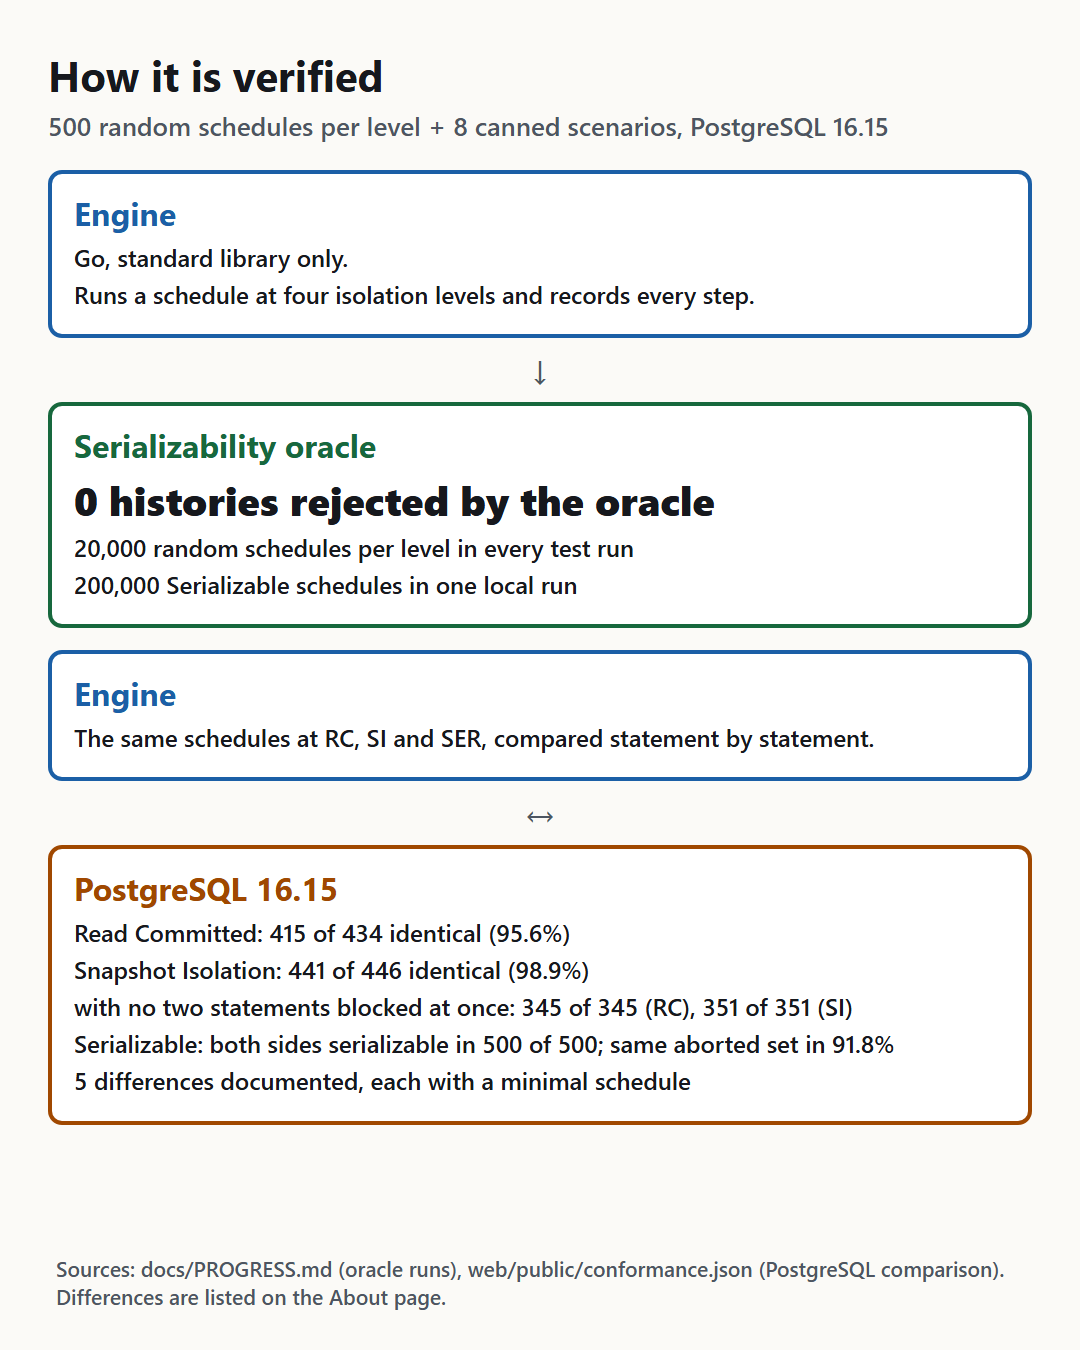
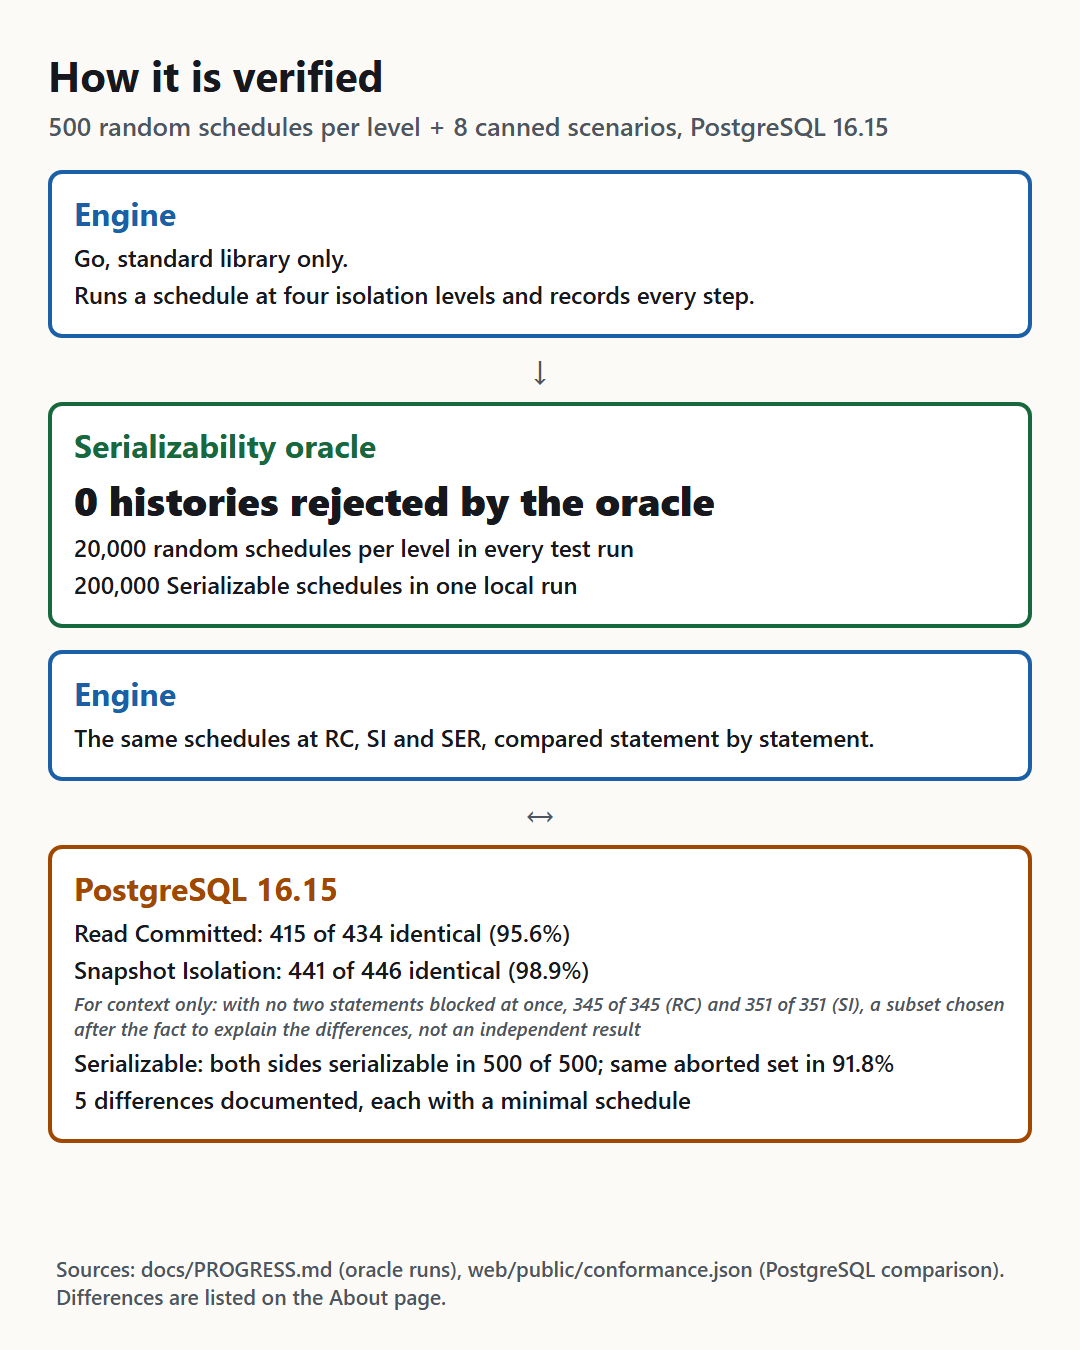
Label the 'no two statements blocked at once' subset as chosen after the fact; dedicated engine diagram
The subset (README, About column, Show HN draft, verification diagram, PROGRESS) now says it is a
subset chosen after the fact to explain the differences, not an independent result;
check-claims.mjs flags it anywhere it appears without that label (with a test). X post 3 uses a new
generated engine-diagram.png (snapshots, lock waits, dependency tracking) instead of a stand-in.

Changed region(s): [[0.0306, 0.7156, 0.825, 0.84], [0.8861, 0.7156, 0.9167, 0.7467], [0.825, 0.7156, 0.8556, 0.7467]]

diff --git a/web/components/ConformanceSection.tsx b/web/components/ConformanceSection.tsx
@@ -110,7 +110,7 @@ export function ConformanceSection({ conf }: { conf: Conformance }) {
                 Identical
               </th>
               <th scope="col" className="border border-line p-2 text-right">
-                Identical when no two statements were blocked at once
+                Identical when no two statements were blocked at once (subset chosen after the fact to explain the differences, not an independent result)
               </th>
               <th scope="col" className="border border-line p-2 text-right">
                 Deadlock: same outcome class
@@ -147,7 +147,7 @@ export function ConformanceSection({ conf }: { conf: Conformance }) {
         </table>
       </div>
       <p>
-        When one commit or abort releases several waiting transactions at once, PostgreSQL lets them run concurrently, while this engine serves them in arrival order. The schedules that can differ are the ones where two statements were blocked at the same time; the measured differences are listed below.
+        When one commit or abort releases several waiting transactions at once, PostgreSQL lets them run concurrently, while this engine serves them in arrival order. The schedules that can differ are the ones where two statements were blocked at the same time; the measured differences are listed below. The "no two statements blocked at once" column is a subset chosen after the fact to explain the differences, not an independent result.
       </p>
 
       <h3 className="mt-6 mb-2 text-lg font-semibold">Serializable</h3>

diff --git a/docs/PROGRESS.md b/docs/PROGRESS.md
@@ -71,7 +71,7 @@ pm audit 0 vulnerabilities), e2e 8m27s (323 Playwright tests passed, 16 skipped,
 Measured by CI run 39578910902 (Linux, `postgres:16` service container, server 16.15 Debian), tree = commit bae15fa; the same structure of numbers was obtained locally on Windows against PostgreSQL 16.15. CI: go 4m14s, web 31s, e2e 11m25s, conformance 11m43s (all green on the first push). The committed `web/public/conformance.json` is that run's artifact.
 - [x] AC8.1 The harness runs in CI against the service container and writes `conformance.json` with `engineVersion` (1.0.0) and `postgresVersion`; a `go`-job step fails if the committed file's `engineVersion` differs from `azoo version`, and the web build fails on a stale or malformed file.
 - [x] AC8.2 Canned scenarios: all 24 (8 x RC/SI/SER) have the same occurs/prevented outcome on PostgreSQL and are identical statement by statement, in final state and in abort set. Read Uncommitted: asking PostgreSQL for it on the dirty-read schedule showed no dirty read and the same history as READ COMMITTED.
-- [x] AC8.3 Random RC/SI (500 per level, seeds 8000000..8000499, no DELETE): **not 100% identical.** RC 415 of 434 strictly compared (95.6%), SI 441 of 446 (98.9%); deadlock schedules agree on outcome class in 57 of 66 (RC) and 52 of 54 (SI). **Among schedules in which no two statements were blocked at once: RC 345/345 and SI 351/351 identical (100%).** Every mismatch (RC 28, SI 7) has simultaneous blocking and is covered by a knownDivergences entry with a committed regression schedule; 0 unexplained. In 126 of 132 (RC) and 124 of 126 (SI) such schedules PostgreSQL produced the engine's own history in at least one run.
+- [x] AC8.3 Random RC/SI (500 per level, seeds 8000000..8000499, no DELETE): **not 100% identical.** RC 415 of 434 strictly compared (95.6%), SI 441 of 446 (98.9%); deadlock schedules agree on outcome class in 57 of 66 (RC) and 52 of 54 (SI). Among schedules in which no two statements were blocked at once, RC 345/345 and SI 351/351 were identical (a subset chosen after the fact to explain the differences, not an independent result). Every mismatch (RC 28, SI 7) has simultaneous blocking and is covered by a knownDivergences entry with a committed regression schedule; 0 unexplained. In 126 of 132 (RC) and 124 of 126 (SI) such schedules PostgreSQL produced the engine's own history in at least one run.
 - [x] AC8.4 SER: both histories serializable per the oracle in 500 of 500 (engine) and 500 of 500 (PostgreSQL). Identical abort sets 459 (91.8%); the engine aborts more in 3 (0.6%), fewer in 28 (5.6%), different sets of the same size in 10; all 28 "fewer" histories are serializable. Causes: docs/METHODOLOGY.md.
 - [ ] AC8.5 Nightly 10,000/level: `conformance-nightly.yml` written (schedule + workflow_dispatch, `contents: read`, SHA-pinned, report uploaded as an artifact); **not run**, the owner triggers it. Record its result here.
 - Divergences (5): `wake-order-race` (established), `released-waiters-interleave` (cause not yet established), `ser-disjoint-keys` and `ser-different-victim` (page-level predicate locks; control experiment passes), `ser-abort-earlier-statement` (cause not yet established). No engine bug was found; the only engine-tree change is the `gen.Config.NoDelete` option (separate commit, all gates green, WASM unchanged). One harness bug found and fixed (scripted ABORT).
@@ -93,10 +93,10 @@ Measured 2026-10-21; CI run 39590452570 (tree c1cdf9b): go 3m27s, web 47s, **sec
 ## P10 — Launch preparation (drafts only; nothing tagged, deployed or posted)
 Measured 2026-10-22 on Windows 11, Node 22.16.0, Go 1.27.3, ffmpeg from Chocolatey. **CI** run 39672189387 (tree f6f30d4, after rebasing onto the owner's merge of Dependabot PR 4, eslint 10): go 4m19s, web 40s, security 53s, e2e 12m14s, conformance 11m40s, all green. Local full run: the Playwright matrix had 381 passed and 5 load-related failures in Firefox and WebKit (engine-heavy tests, the same class as before); all 30 pass on re-run; Lighthouse 1.00 in all four categories on the pages measured. The full local checklist output is in `docs/RELEASE-CHECKLIST.md` ("Evidence of the last local run") and below.
 - Launch clip: `docs/launch/hero.mp4` is 23.96 s (about 24 s), 1280 x 960, 1.03 MB; `docs/launch/hero.gif` is 4.72 MB (4,724,853 bytes; the 5 MB limit), made by `web/scripts/record-launch.mjs` driving the built site through write skew at Snapshot Isolation, then Serializable. Captions are an overlay injected by the script only. Frames were inspected: the timeline, the T2 abort and the "Prevented" banner are visible and no caption covers them.
-- Stills (`web/scripts/launch-stills.mjs`): habitat map in light and dark, the "how it is verified" diagram (numbers read from `conformance.json` and the AC4.2 line of this file at run time), three 1080 x 1350 carousel stills.
+- Stills (`web/scripts/launch-stills.mjs`; also `engine-diagram.png` for X post 3, added after review): habitat map in light and dark, the "how it is verified" diagram (numbers read from `conformance.json` and the AC4.2 line of this file at run time), three 1080 x 1350 carousel stills.
 - Production URL: one source, `SITE_URL` in `web/lib/site.ts` (sitemap, robots, Open Graph metadata and the share-image cards read it); `node scripts/site-url.mjs --set <url>` rewrites the documents that quote it and `--check` runs in CI.
 - Claims policy: `scripts/check-claims.mjs` (CI `security` job) fails on the banned phrases and on any figure in the README, About page text, COPY files, release checklist and launch drafts that is in no recorded source (conformance.json, this log, DECISIONS.md or the structural allowlist, `docs/claims-allowlist.txt`); a figure cited to `conformance.json` must be in `conformance.json` itself. It has its own tests (7). It caught two real slips while writing: the About heading "Comparison with a real database" (a banned phrase, now "Comparison with PostgreSQL") and a draft figure taken from a local run instead of the committed report.
 - About page limits 3 and 4 now carry their PostgreSQL clauses, each backed by the measured comparison on the same page; limit 3 is conditional on the Read Uncommitted probe.
 - README rewritten; `docs/METHODOLOGY.md` final (engine semantics, oracle, property tests, mutation checks, conformance, five divergences with two "cause not yet established", limits); `CHANGELOG.md` 1.0.0 entry (not tagged); `docs/RELEASE-CHECKLIST.md`; `docs/launch/` post drafts (LinkedIn, X thread of 6 posts, Show HN, subreddit note, write-up outline).
-- Open `[MISSING: ...]` placeholders (all in `docs/launch/`): production URL confirmed live (LinkedIn, X thread, Show HN); repository link to post (LinkedIn, X, write-up); your own motivation sentences (Show HN); a dedicated engine diagram for X post 3 (a timeline still stands in); the rules of each subreddit, read on the day; which finding to lead the write-up with and your own voice.
+- Open `[MISSING: ...]` placeholders (all in `docs/launch/`): production URL confirmed live (LinkedIn, X thread, Show HN); repository link to post (LinkedIn, X, write-up); your own motivation sentences (Show HN); the rules of each subreddit, read on the day; which finding to lead the write-up with and your own voice.
 - NOT verified: production headers and Lighthouse on a deployed URL, real social-platform link previews, the nightly 10,000-per-level run, the 60-minute fuzz runs, free-tier terms (the owner re-checks and dates them in the release checklist), Safari on macOS and real devices.

diff --git a/README.md b/README.md
@@ -42,7 +42,7 @@ More commands, including fuzzing and coverage, are in [docs/DEV.md](docs/DEV.md)
 Each figure below links to where it is recorded. The method is in [docs/METHODOLOGY.md](docs/METHODOLOGY.md).
 
 - **Oracle.** The engine's Serializable level was checked against a serializability oracle on 20,000 random schedules per level in every test run, and on 200,000 Serializable schedules in one local run: 0 histories rejected ([PROGRESS.md, AC4.2](docs/PROGRESS.md)). Passing random schedules against an oracle is evidence, not a proof that the level is correct. Deliberately switching off any of the three edge-creation rules of the Serializable level makes tests fail ([mutation checks](docs/METHODOLOGY.md#mutation-checks)).
-- **PostgreSQL.** Outcomes were compared with PostgreSQL 16.15 on the 8 canned scenarios and 500 random schedules per level at Read Committed, Snapshot Isolation (PostgreSQL's Repeatable Read) and Serializable ([conformance.json](web/public/conformance.json), method in [METHODOLOGY](docs/METHODOLOGY.md)). Statement results, final state and aborted transactions were identical on 415 of 434 schedules at Read Committed (95.6%) and 441 of 446 at Snapshot Isolation (98.9%). When no two statements were blocked at the same time they were identical on 345 of 345 and 351 of 351. At Serializable both sides produced serializable histories in 500 of 500 schedules, with the same set of aborted transactions in 91.8%.
+- **PostgreSQL.** Outcomes were compared with PostgreSQL 16.15 on the 8 canned scenarios and 500 random schedules per level at Read Committed, Snapshot Isolation (PostgreSQL's Repeatable Read) and Serializable ([conformance.json](web/public/conformance.json), method in [METHODOLOGY](docs/METHODOLOGY.md)). Statement results, final state and aborted transactions were identical on 415 of 434 schedules at Read Committed (95.6%) and 441 of 446 at Snapshot Isolation (98.9%). The schedules where no two statements were blocked at the same time were identical on 345 of 345 and 351 of 351, but that is a subset chosen after the fact to explain the differences, not an independent result. At Serializable both sides produced serializable histories in 500 of 500 schedules, with the same set of aborted transactions in 91.8%.
 - **Differences are documented**, not hidden: there are 5, each with a minimal schedule under [`engine/testdata/regressions/`](engine/testdata/regressions/), and two of them are listed as "cause not yet established" ([METHODOLOGY, Divergences](docs/METHODOLOGY.md#divergences)).
 - **Reproducible engine build.** The WebAssembly engine is committed and CI rebuilds it from source and compares the hash; its trace digests equal the native ones on all 32 canned traces ([PROGRESS.md, P5](docs/PROGRESS.md)).
 - **Security checks** run in CI: vulnerability scans of both Go modules and the npm dependencies, a repository-controls check, CodeQL ([docs/SECURITY-CONTROLS.md](docs/SECURITY-CONTROLS.md)).

diff --git a/docs/launch/show-hn.md b/docs/launch/show-hn.md
@@ -18,7 +18,7 @@ What is verified and how:
 
 - The anomaly matrix (eight anomalies by four levels) is computed by running the engine and asserted in CI; there are no hand-written outcomes in the web app.
 - The Serializable level was checked against a serializability oracle on 20,000 random schedules per level in every test run, and on 200,000 in one local run: 0 histories rejected [source: docs/PROGRESS.md, AC4.2]. Deliberately disabling any of three edge-tracking rules makes tests fail, and the counterexamples shrink to 8 steps [source: docs/PROGRESS.md, AC4.3].
-- Compared with PostgreSQL 16.15 on 500 random schedules per level: 415 of 434 identical at Read Committed and 441 of 446 at Snapshot Isolation. Among schedules where no two statements were blocked at once: 345 of 345 and 351 of 351 [source: web/public/conformance.json, random.RC and random.SI]. At Serializable both sides were serializable in 500 of 500, with the same aborted set in 91.8% [source: web/public/conformance.json, random.SER].
+- Compared with PostgreSQL 16.15 on 500 random schedules per level: 415 of 434 identical at Read Committed and 441 of 446 at Snapshot Isolation. For context only, not a result to quote: among schedules where no two statements were blocked at once, 345 of 345 and 351 of 351, a subset chosen after the fact to explain the differences, not an independent result [source: web/public/conformance.json, random.RC and random.SI]. At Serializable both sides were serializable in 500 of 500, with the same aborted set in 91.8% [source: web/public/conformance.json, random.SER].
 - The differences are documented with a minimal schedule each; two are marked "cause not yet established" [source: web/public/conformance.json, knownDivergences]. The harness itself found that PostgreSQL's own result for the same schedule varies from run to run when two statements are blocked at the same time (method: docs/METHODOLOGY.md).
 
 Limits: keys and integers with prefix scans, no SQL or durability; a deterministic single-threaded simulation, not real concurrency; the Serializable level is simplified (key-prefix predicate locks, no read-only optimisation). PostgreSQL 16 only, on schedules without DELETE.

diff --git a/docs/launch/README.md b/docs/launch/README.md
@@ -9,6 +9,7 @@ Spec section 13.1 and 13.2. Everything in this folder is a draft for the owner t
 | `hero.mp4` | 24 s recording of write skew: Snapshot Isolation (zero on call), flip to Serializable, T2 aborts, the invariant holds | `cd web && npm run build && node scripts/record-launch.mjs` (needs `ffmpeg`) |
 | `hero.gif` | The same clip as a GIF under 5 MB | same command (it backs off width, frame rate and colours until the file fits) |
 | `habitat-map-light.png`, `habitat-map-dark.png` | The map, clean | `cd web && node scripts/launch-stills.mjs` |
+| `engine-diagram.png` | "How the engine works": snapshots, lock waits, dependency tracking, with illustrative values (for X post 3) | same command |
 | `how-verified.png` | "How it is verified": engine to oracle, engine and PostgreSQL on shared schedules, with measured numbers read from `conformance.json` and `docs/PROGRESS.md` when the script runs | same command |
 | `carousel-1-bug.png`, `carousel-2-fix.png`, `carousel-3-proof.png` | The bug, the fix, the proof (1080 x 1350) | same command |
 | `linkedin.md`, `x-thread.md`, `show-hn.md`, `subreddit-note.md`, `writeup-outline.md` | Post drafts | written by hand from recorded numbers |

diff --git a/docs/launch/x-thread.md b/docs/launch/x-thread.md
@@ -15,7 +15,7 @@ Eight anomalies by four isolation levels. Every cell is computed by running the 
 
 Click any cell to replay that run.
 
-**3/6** (attach `carousel-2-fix.png`; [MISSING: a dedicated engine diagram was not drawn, this timeline still stands in for it])
+**3/6** (attach `engine-diagram.png`)
 How the engine works: each transaction reads from a snapshot of committed versions. Writers take locks and wait in line. At Serializable it also tracks who read what another transaction wrote, and aborts one when they form a dangerous pattern.
 
 **4/6** (attach `how-verified.png`)
